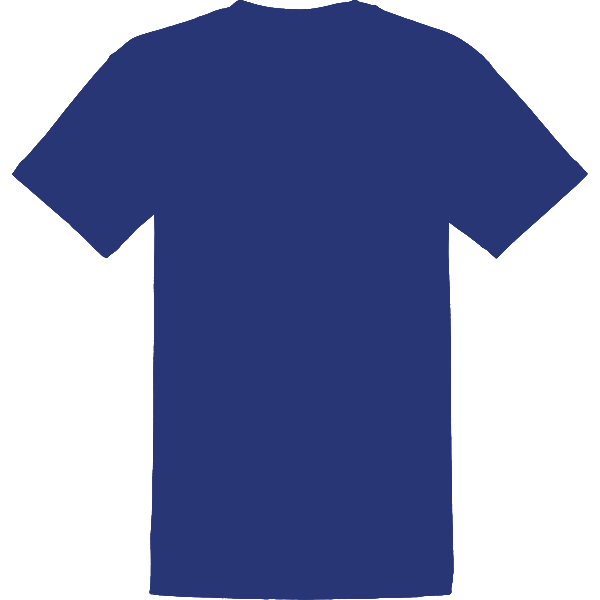
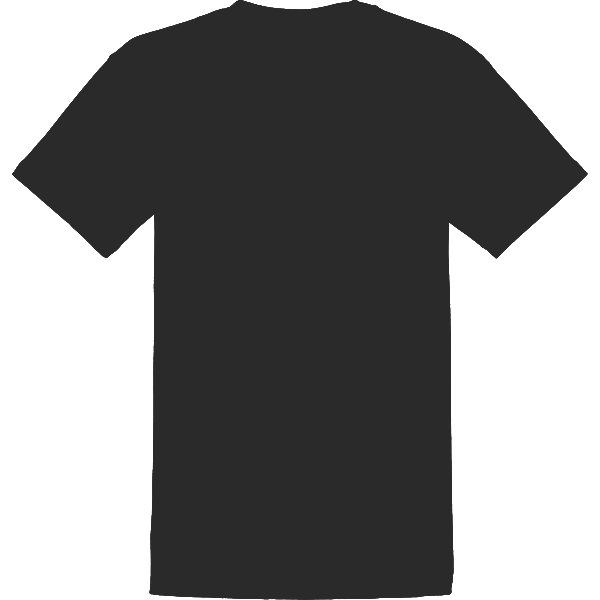
made some changes to designer

diff --git a/designer/designer.html b/designer/designer.html
@@ -117,7 +117,7 @@ git pull https://github.com/mrected/Central-Ave-Shirt-Co.git
       <div id="designer" class="fpd-shadow-2 fpd-sidebar fpd-tabs fpd-tabs-side fpd-top-actions-centered fpd-bottom-actions-centered fpd-views-inside-left fpd-grid-columns-2"">
 
         <div class="fpd-product" title="Front" data-thumbnail="../images/products/tshirtBlue.png" id="designShirt">
-          <img src="images/designerImages/tshirt-base.png" title="Base" data-parameters='{"x":500, "y":375, "colors": "#283675,#d59211,#00a8b0,#990000,#000,#fff","colorLinkGroup": "Base", "price": 20}'>
+          <img src="images/designerImages/tshirt-base.png" title="Base" data-parameters='{"x":500, "y":375, "colors": "#2a2a2a,#4b4a4a,#65a453,#492832,#323644,#d76d23,#89222f,#3e4ca3,#5ea0d9,#e9b238","colorLinkGroup": "Base", "price": 20}'>
           <img src="images/designerImages/tshirt-highlights.png" title="Hightlights" data-parameters='{"x":500, "y":375}'>
           <img src="images/designerImages/tshirt-shadows.png" title="Shadow" data-parameters='{"x":500, "y":375}'>
             <div class="fpd-product" title="Back" data-thumbnail="../images/products/tshirtBlue-back.png">
@@ -128,7 +128,7 @@ git pull https://github.com/mrected/Central-Ave-Shirt-Co.git
         </div>
 
         <div class="fpd-product" title="Front" data-thumbnail="../images/products/lsGray.png" id="designLs">
-          <img src="images/designerImages/ls-base.png" title="Base" data-parameters='{"x":500, "y":375, "colors": "#7f7f7f,#2f3ead,#990000,#000,#fff","colorLinkGroup": "Base", "price": 25}'>
+          <img src="images/designerImages/ls-base.png" title="Base" data-parameters='{"x":500, "y":375, "colors": "#756cb3,#4a4b4e,#cea55e,#b6ccdf,#723545,#72869c,#e17097,#678b8c,#6e7072,#b34254,#824c52,#82a47b,#83bcd1,#f4f4f4","colorLinkGroup": "Base", "price": 25}'>
           <img src="images/designerImages/ls-highlights.png" title="Hightlights" data-parameters='{"x":500, "y":375}'>
           <img src="images/designerImages/ls-shadows.png" title="Shadow" data-parameters='{"x":500, "y":375}'>
             <div class="fpd-product" title="Back" data-thumbnail="../images/products/lsGray.png">
@@ -223,14 +223,14 @@ git pull https://github.com/mrected/Central-Ave-Shirt-Co.git
             <img src="images/designs/shark.png" title="Shark" data-parameters='{"left": 210, "top": 200, "colors": "#004b52", "removable": true, "draggable": true, "rotatable": true, "resizable": true, "scale": 0.25, "price": 7, "boundingBox": "Base", "autoCenter": true}'>
           </div>
         </div>
-
+        
       </div>
 
       <!-- <div id="checkout-button">
         <p>Checkout</p>
       </div> -->
       <!--END PRODUCT DESIGNER-->
-
+      <a href="#" id="checkout-button" class="cxlDefault btn btn-default">Checkout</a>
     </div>
 
 </div>

diff --git a/social.html b/social.html
@@ -102,13 +102,7 @@ git pull https://github.com/mrected/Central-Ave-Shirt-Co.git
             <div class="container">
           
                 <h1 class="text-uppercase text-center">One day<br><small>this will be an actual social media page</small></h1>
-                <p class="text-center"><a href="#" class="btn btn-primary btn-sm" alt="back" onclick="goBack()"><i class="fa fa-arrow-left" aria-hidden="true"></i> back</a></p>
-
-                  <script>
-                  function goBack() {
-                      window.history.back();
-                  }
-                  </script>
+                <p class="text-center"><a href="#" class="btn btn-default" onclick="backLink()"><i class="fa fa-arrow-circle-left" aria-hidden="true"></i> Back</a></p>
                 
 
 

diff --git a/designer/js/callPlugin.js b/designer/js/callPlugin.js
@@ -59,9 +59,11 @@ $(document).ready(function(){
 			    	},
 			actions:  {
 						'top': ['download','print', 'snap', 'preview-lightbox'],
-						'right': ['magnify-glass', 'zoom', 'reset-product', 'qr-code', 'ruler'],
+						'right': ['zoom', 'reset-product', 'qr-code', 'ruler'],
 						'bottom': ['undo','redo'],
-						'left': ['manage-layers','info','save','load']
+						'left': ['info','manage-layers','save','load']
+
+						//unused: 'magnify-glass' 
 					},
 			mainBarModules: ['products','images', 'designs', 'text'],
 					colorSelectionPlacement: 'outside-br',
